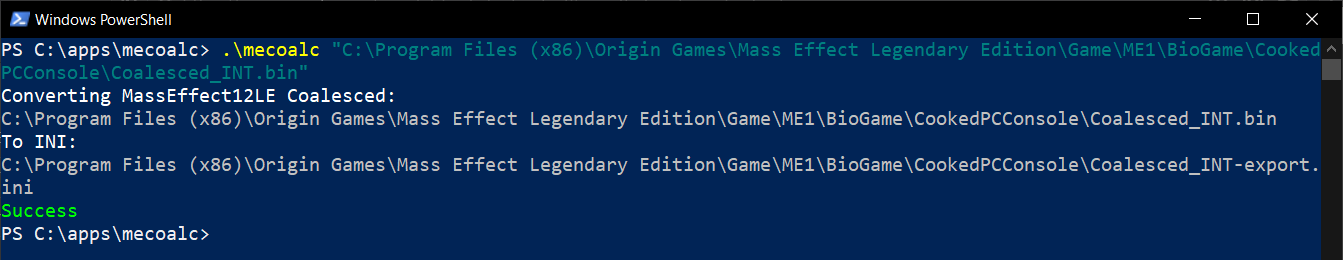
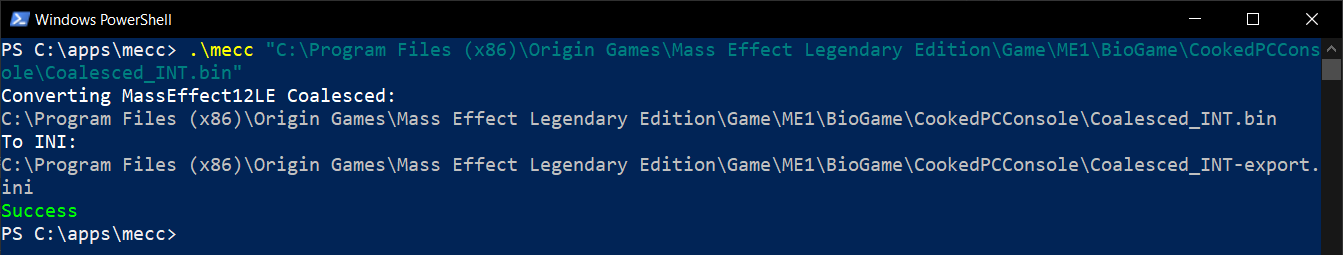
Changed filename from mecoalc.exe to mecc.exe

diff --git a/ConsoleApp/Program.cs b/ConsoleApp/Program.cs
@@ -46,7 +46,7 @@ namespace CoalescedConvert
 			Log.Info("  Converts a Mass Effect Coalesced file into an INI file, or vice-versa.");
 			Log.NewLine();
 			Log.Heading("Usage:");
-			Log.Info("> mecoalc.exe <input_file_name> [switches]");
+			Log.Info("> mecc.exe <input_file_name> [switches]");
 			Log.NewLine();
 			Log.Heading("Switches");
 			Log.Info("-h, --help             Show this help info.");
@@ -57,13 +57,13 @@ namespace CoalescedConvert
 			Log.Heading("Example:");
 			Log.NewLine();
 			Log.Info("Export \"Coalesced_INT.bin\" into an INI file:");
-			Log.Info("> mecoalc.exe \"Coalesced_INT.bin\"");
+			Log.Info("> mecc.exe \"Coalesced_INT.bin\"");
 			Log.Info("This generates a new file \"Coalesced-export.ini\" in the same folder.");
 			Log.NewLine();
 			Log.Info("(make your changes to the INI file)");
 			Log.NewLine();
 			Log.Info("Import \"Coalesced_INT-export.ini\" back into \"Coalesced_INT.bin\":");
-			Log.Info("> mecoalc.exe \"Coalesced_INT.bin\"");
+			Log.Info("> mecc.exe \"Coalesced_INT.bin\"");
 			Log.Info("This creates a backup of \"Coalesced_INT.bin\" and overwrites the file with the");
 			Log.Info("changes you've made to \"Coalesced_INT-export.ini\".");
 			Log.NewLine();

diff --git a/README.md b/README.md
@@ -16,7 +16,7 @@ Open a console prompt (cmd / PowerShell) and navigate to the folder where you ex
 
 Enter:
 
-`.\mecoalc "C:\Program Files (x86)\Origin Games\Mass Effect Legendary Edition\Game\ME1\BioGame\CookedPCConsole\Coalesced_INT.bin"`
+`.\mecc "C:\Program Files (x86)\Origin Games\Mass Effect Legendary Edition\Game\ME1\BioGame\CookedPCConsole\Coalesced_INT.bin"`
 
 ![Decoding Using PowerShell](https://raw.githubusercontent.com/cmrazek/MECoalescedConvert/master/assets/decode-ps.png)
 
@@ -24,9 +24,9 @@ This will create a new file __Coalesced_INT-export.ini__ in the same folder. Usi
 
 ![Editing the File](https://raw.githubusercontent.com/cmrazek/MECoalescedConvert/master/assets/edit-ini.png)
 
-Once you've completed your changes, run __mecoalc.exe__ again, this time passing in the file name of the text file you just edited.
+Once you've completed your changes, run __mecc.exe__ again, this time passing in the file name of the text file you just edited.
 
-`.\mecoalc "C:\Program Files (x86)\Origin Games\Mass Effect Legendary Edition\Game\ME1\BioGame\CookedPCConsole\Coalesced_INT-export.ini"`
+`.\mecc "C:\Program Files (x86)\Origin Games\Mass Effect Legendary Edition\Game\ME1\BioGame\CookedPCConsole\Coalesced_INT-export.ini"`
 
 ![Encoding Using PowerShell](https://raw.githubusercontent.com/cmrazek/MECoalescedConvert/master/assets/encode-ps.png)
 
@@ -34,3 +34,8 @@ It will save your changes to __Coalesced_INT.bin__.
 The first time this is done, the app will make a backup of the original file (just in case).
 
 Play the game.
+
+## ChangeLog
+
+### Version 1.0.1
+- Changed file name to mecc.exe, because it's easier to type and remember than mecoalc.
